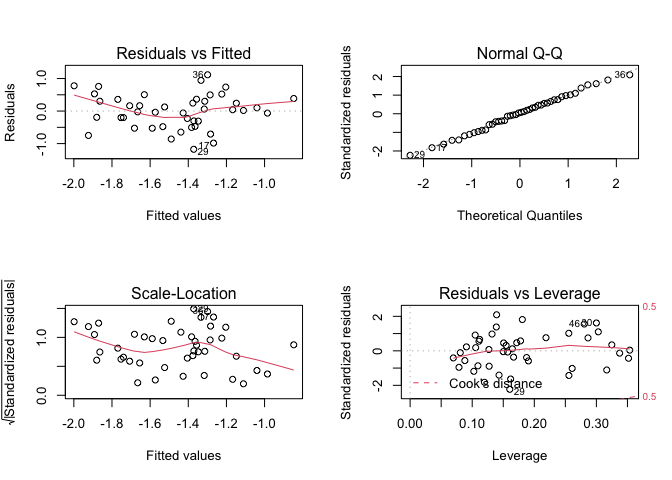
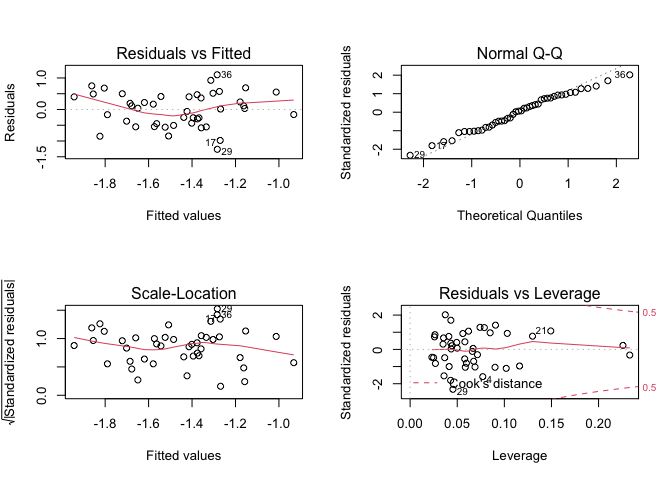
fix lm

diff --git a/bm1_final_proj.md b/bm1_final_proj.md
@@ -695,46 +695,32 @@ plot(final_fit2)
 ``` r
 # Remove observations 9
 crime_log_rm_9<-crime_log[c(-9),]
-mult.fit_no9<- lm(ln_hate_crime_outcome ~ . -state -hate_crimes_per_100k_splc, data = crime_log_rm_9)
+mult.fit_no9<- lm(ln_hate_crime_outcome ~ perc_population_with_high_school_degree + gini_index , data = crime_log_rm_9)
 
 summary(mult.fit_no9)
 ```
 
     ## 
     ## Call:
-    ## lm(formula = ln_hate_crime_outcome ~ . - state - hate_crimes_per_100k_splc, 
-    ##     data = crime_log_rm_9)
+    ## lm(formula = ln_hate_crime_outcome ~ perc_population_with_high_school_degree + 
+    ##     gini_index, data = crime_log_rm_9)
     ## 
     ## Residuals:
     ##      Min       1Q   Median       3Q      Max 
-    ## -1.17560 -0.35011  0.02951  0.35998  1.11574 
+    ## -1.26341 -0.43818  0.03534  0.42669  1.10132 
     ## 
     ## Coefficients:
-    ##                                           Estimate Std. Error t value Pr(>|t|)
-    ## (Intercept)                             -1.232e+01  6.694e+00  -1.840    0.074
-    ## unemploymenthigh                        -2.235e-01  2.049e-01  -1.091    0.283
-    ## urbanizationhigh                         1.986e-01  2.503e-01   0.793    0.433
-    ## median_household_income                 -6.492e-06  1.706e-05  -0.380    0.706
-    ## perc_population_with_high_school_degree  8.238e+00  5.575e+00   1.478    0.148
-    ## perc_non_citizen                         1.568e+00  5.367e+00   0.292    0.772
-    ## gini_index                               9.146e+00  7.431e+00   1.231    0.226
-    ## perc_non_white                          -5.079e-01  1.078e+00  -0.471    0.640
-    ##                                          
-    ## (Intercept)                             .
-    ## unemploymenthigh                         
-    ## urbanizationhigh                         
-    ## median_household_income                  
-    ## perc_population_with_high_school_degree  
-    ## perc_non_citizen                         
-    ## gini_index                               
-    ## perc_non_white                           
+    ##                                         Estimate Std. Error t value Pr(>|t|)   
+    ## (Intercept)                              -14.611      5.359  -2.726  0.00938 **
+    ## perc_population_with_high_school_degree    9.509      3.419   2.781  0.00814 **
+    ## gini_index                                10.811      6.429   1.682  0.10025   
     ## ---
     ## Signif. codes:  0 '***' 0.001 '**' 0.01 '*' 0.05 '.' 0.1 ' ' 1
     ## 
-    ## Residual standard error: 0.5752 on 36 degrees of freedom
+    ## Residual standard error: 0.556 on 41 degrees of freedom
     ##   (3 observations deleted due to missingness)
-    ## Multiple R-squared:  0.2102, Adjusted R-squared:  0.05667 
-    ## F-statistic: 1.369 on 7 and 36 DF,  p-value: 0.2481
+    ## Multiple R-squared:  0.1595, Adjusted R-squared:  0.1185 
+    ## F-statistic: 3.889 on 2 and 41 DF,  p-value: 0.02841
 
 ``` r
 mult.fit_no9 %>% 
@@ -742,114 +728,64 @@ mult.fit_no9 %>%
   knitr::kable()
 ```
 
-| term                                         |     estimate | std.error |   statistic |   p.value |
-| :------------------------------------------- | -----------: | --------: | ----------: | --------: |
-| (Intercept)                                  | \-12.3163054 | 6.6939557 | \-1.8399144 | 0.0740376 |
-| unemploymenthigh                             |  \-0.2235412 | 0.2048939 | \-1.0910097 | 0.2825171 |
-| urbanizationhigh                             |    0.1986136 | 0.2503358 |   0.7933888 | 0.4327497 |
-| median\_household\_income                    |  \-0.0000065 | 0.0000171 | \-0.3804798 | 0.7058251 |
-| perc\_population\_with\_high\_school\_degree |    8.2384517 | 5.5751399 |   1.4777121 | 0.1481810 |
-| perc\_non\_citizen                           |    1.5681815 | 5.3668087 |   0.2922000 | 0.7718111 |
-| gini\_index                                  |    9.1461035 | 7.4312797 |   1.2307575 | 0.2263946 |
-| perc\_non\_white                             |  \-0.5078851 | 1.0776599 | \-0.4712852 | 0.6402807 |
+| term                                         |    estimate | std.error |  statistic |   p.value |
+| :------------------------------------------- | ----------: | --------: | ---------: | --------: |
+| (Intercept)                                  | \-14.611088 |  5.359386 | \-2.726262 | 0.0093804 |
+| perc\_population\_with\_high\_school\_degree |    9.509373 |  3.419135 |   2.781221 | 0.0081448 |
+| gini\_index                                  |   10.810724 |  6.428859 |   1.681593 | 0.1002509 |
 
 ``` r
 influence.measures(mult.fit_no9)
 ```
 
     ## Influence measures of
-    ##   lm(formula = ln_hate_crime_outcome ~ . - state - hate_crimes_per_100k_splc,      data = crime_log_rm_9) :
+    ##   lm(formula = ln_hate_crime_outcome ~ perc_population_with_high_school_degree +      gini_index, data = crime_log_rm_9) :
     ## 
-    ##       dfb.1_ dfb.unmp dfb.urbn  dfb.md__ dfb.p___ dfb.prc_nn_c dfb.gn_n
-    ## 1   0.009525 -0.02361  0.04034 -0.018624  0.02319      0.07908 -0.05152
-    ## 2   0.022909 -0.13558  0.08541 -0.069571 -0.06331      0.08235  0.07297
-    ## 3   0.022597  0.02983  0.01546 -0.063955  0.01658      0.06830 -0.05690
-    ## 4  -0.275072 -0.22471  0.20944 -0.112558  0.30986     -0.11212  0.10994
-    ## 5   0.339196  0.07858 -0.17175  0.337978 -0.41855      0.26248 -0.17096
-    ## 6  -0.025637 -0.03119  0.02866 -0.010593  0.02438     -0.01478  0.01919
-    ## 7  -0.013551  0.00896 -0.00116  0.014222  0.00295     -0.00738  0.01950
-    ## 8   0.067749 -0.10293  0.14334 -0.006286 -0.02868     -0.10361 -0.09181
-    ## 10  0.156047 -0.04300 -0.00761  0.209841 -0.19087     -0.10520 -0.08219
-    ## 11  0.032168 -0.05522 -0.07581  0.105456 -0.05924     -0.00754  0.00162
-    ## 13 -0.122981  0.08703  0.10561  0.090471  0.03441     -0.19230  0.15862
-    ## 14  0.036406 -0.05448 -0.03604  0.022687 -0.03844     -0.00358 -0.02200
-    ## 15  0.022148 -0.03183 -0.00890 -0.022781 -0.00906      0.00947 -0.02236
-    ## 16 -0.035754 -0.03193 -0.06342 -0.100652  0.11878      0.06789 -0.06854
-    ## 17  0.385834  0.22610  0.28798  0.365956 -0.46028     -0.12841 -0.20280
-    ## 18  0.241141 -0.23093 -0.08289  0.084433 -0.34478      0.06322  0.03050
-    ## 19  0.000698  0.03329 -0.43141  0.025612  0.04202      0.60969 -0.07698
-    ## 20  0.084598 -0.14158  0.07037  0.278427 -0.11842     -0.18774 -0.07672
-    ## 21 -0.216437 -0.11288 -0.03175 -0.046286  0.14058      0.17052  0.24627
-    ## 22 -0.004672 -0.09013  0.14248 -0.074064  0.03211     -0.05854 -0.01341
-    ## 23 -0.145189 -0.01666 -0.33581  0.149186  0.09378      0.19023  0.12651
-    ## 24 -0.000325 -0.01103  0.00634 -0.010309  0.00446      0.00534 -0.00380
-    ## 25 -0.119499 -0.07066  0.00840 -0.205053  0.19698     -0.01956  0.01887
-    ## 26  0.002171  0.05307  0.13157  0.093839 -0.07278     -0.16580  0.07339
-    ## 27 -0.071561 -0.03981 -0.03145  0.065488  0.01076     -0.08209  0.11613
-    ## 28 -0.240785 -0.04944  0.12471 -0.450151  0.29710      0.01531  0.14585
-    ## 29  0.232803 -0.47008  0.27740 -0.138441 -0.17844     -0.58865 -0.14445
-    ## 30 -0.222177  0.03104 -0.49094 -0.093456  0.20648     -0.24343  0.13572
-    ## 31  0.054043  0.04446  0.01598  0.017654 -0.02872     -0.02397 -0.07156
-    ## 32 -0.067123  0.08187 -0.15531 -0.038894  0.05115      0.03012  0.06940
-    ## 34  0.061806  0.08251  0.05729  0.070515 -0.06005     -0.00816 -0.06106
-    ## 35  0.064947  0.20365  0.11224  0.119720 -0.07213      0.03569 -0.05927
-    ## 36 -0.088862  0.53731  0.25613 -0.193562  0.25415      0.31331 -0.14245
-    ## 37 -0.011037  0.01998  0.03026  0.000653  0.00940     -0.02690  0.00928
-    ## 38 -0.237643 -0.31936 -0.08375 -0.290945  0.34048     -0.24869  0.03857
-    ## 39 -0.007231  0.05735 -0.07123 -0.000461 -0.00640     -0.06497  0.02586
-    ## 40 -0.007310 -0.00589 -0.01936  0.004464  0.00671      0.00811  0.00277
-    ## 41  0.126285 -0.13293  0.01050  0.058043 -0.14416      0.03239 -0.05824
-    ## 42 -0.458249  0.12075 -0.59337 -0.074278  0.23010      0.18674  0.58774
-    ## 43 -0.007574 -0.00247 -0.00460  0.006589  0.00323     -0.00601  0.01034
-    ## 44  0.057312 -0.12503  0.09605  0.162835 -0.11306     -0.14545  0.01155
-    ## 45 -0.067056  0.47792  0.19225 -0.318867  0.33356      0.39121 -0.28374
-    ## 46  0.509451  0.35366  0.03866  0.042935 -0.48233      0.08845 -0.28033
-    ## 47 -0.003170  0.00851  0.00695  0.001068 -0.00307      0.00276  0.00989
-    ##    dfb.prc_nn_w   dffit cov.r   cook.d    hat inf
-    ## 1     -4.63e-02 -0.1622 1.459 0.003370 0.1666    
-    ## 2     -1.69e-01 -0.3144 1.854 0.012639 0.3518   *
-    ## 3      2.21e-04  0.1314 1.450 0.002213 0.1546    
-    ## 4      2.61e-01 -0.5837 0.930 0.041388 0.1432    
-    ## 5     -1.00e-01  0.7281 1.367 0.065860 0.3031    
-    ## 6      1.58e-02  0.0621 1.390 0.000495 0.1056    
-    ## 7     -1.99e-03  0.0288 1.938 0.000106 0.3537   *
-    ## 8      8.72e-02  0.2108 1.440 0.005679 0.1717    
-    ## 10    -4.38e-02 -0.2816 1.433 0.010102 0.1905    
-    ## 11    -8.61e-02 -0.2792 1.107 0.009767 0.0787    
-    ## 13     1.60e-01 -0.4039 1.014 0.020156 0.1026    
-    ## 14     2.17e-03 -0.1111 1.297 0.001581 0.0696    
-    ## 15    -8.61e-03  0.0714 1.362 0.000655 0.0907    
-    ## 16    -1.30e-02  0.3115 1.160 0.012186 0.1048    
-    ## 17    -2.04e-01 -0.6966 0.655 0.056623 0.1197    
-    ## 18    -2.96e-01  0.5959 1.333 0.044348 0.2556    
-    ## 19    -3.40e-01 -0.7580 1.388 0.071345 0.3167    
-    ## 20     2.23e-01  0.4713 1.549 0.028116 0.2865    
-    ## 21    -1.20e-01  0.3997 1.409 0.020216 0.2188    
-    ## 22     1.46e-02  0.1894 1.409 0.004585 0.1506    
-    ## 23    -1.13e-01  0.5620 0.941 0.038459 0.1388    
-    ## 24     3.68e-03 -0.0193 1.473 0.000048 0.1499    
-    ## 25     7.69e-03  0.3793 1.166 0.018015 0.1319    
-    ## 26     4.46e-02 -0.3030 1.187 0.011555 0.1092    
-    ## 27     7.77e-04 -0.1846 1.491 0.004365 0.1876    
-    ## 28     2.26e-01 -0.6064 1.341 0.045906 0.2610    
-    ## 29     2.09e-01 -1.0361 0.454 0.118939 0.1605    
-    ## 30     8.29e-01  1.0823 0.981 0.139709 0.3000    
-    ## 31    -8.38e-05 -0.0950 1.883 0.001160 0.3375   *
-    ## 32     5.04e-02  0.2332 1.279 0.006905 0.1120    
-    ## 34    -1.51e-02 -0.1736 1.280 0.003842 0.0881    
-    ## 35    -1.71e-01 -0.3397 1.200 0.014510 0.1273    
-    ## 36    -3.56e-01  0.8848 0.517 0.088440 0.1393    
-    ## 37    -1.19e-05  0.0511 1.495 0.000336 0.1646    
-    ## 38     5.41e-01 -0.7357 0.807 0.064428 0.1619    
-    ## 39     6.71e-02  0.1950 1.315 0.004849 0.1109    
-    ## 40     8.35e-03 -0.0297 1.485 0.000113 0.1571    
-    ## 41     4.00e-03  0.2371 1.807 0.007204 0.3248   *
-    ## 42     9.57e-02 -0.8490 1.057 0.087429 0.2557    
-    ## 43    -6.90e-03  0.0285 1.433 0.000105 0.1269    
-    ## 44     6.40e-02  0.2657 1.415 0.008992 0.1778    
-    ## 45    -1.99e-01  0.8810 0.711 0.090682 0.1808    
-    ## 46    -6.50e-01  0.9894 1.000 0.117424 0.2804    
-    ## 47    -7.07e-03 -0.0314 1.359 0.000127 0.0808
+    ##      dfb.1_ dfb.p___ dfb.gn_n    dffit cov.r   cook.d    hat inf
+    ## 1  -0.04831  0.10108 -0.01698 -0.18486 1.115 1.15e-02 0.0674    
+    ## 2  -0.08412 -0.05622  0.20649 -0.37353 1.095 4.63e-02 0.1020    
+    ## 3   0.04674 -0.05176 -0.03171  0.07537 1.115 1.93e-03 0.0432    
+    ## 4  -0.33436  0.38862  0.21221 -0.46815 0.964 7.03e-02 0.0771    
+    ## 5   0.15990 -0.23793 -0.04784  0.31590 1.126 3.34e-02 0.1031    
+    ## 6  -0.08041  0.08395  0.06439  0.10866 1.127 4.02e-03 0.0581    
+    ## 7   0.16551 -0.13590 -0.16761 -0.17993 1.393 1.10e-02 0.2331   *
+    ## 8   0.08234 -0.04650 -0.10068  0.15586 1.077 8.18e-03 0.0411    
+    ## 10  0.07500 -0.03959 -0.09999 -0.13600 1.118 6.27e-03 0.0579    
+    ## 11 -0.00911  0.06306 -0.05170 -0.20751 1.043 1.44e-02 0.0414    
+    ## 13 -0.13389  0.05633  0.18403 -0.26013 1.055 2.25e-02 0.0586    
+    ## 14  0.04890 -0.03380 -0.05761 -0.09386 1.099 2.99e-03 0.0367    
+    ## 15  0.06286 -0.04536 -0.06759  0.09197 1.119 2.88e-03 0.0494    
+    ## 16  0.01954  0.08717 -0.12000  0.29453 1.098 2.90e-02 0.0849    
+    ## 17  0.14172 -0.22640 -0.03864 -0.39381 0.878 4.88e-02 0.0430    
+    ## 18  0.20475 -0.28349 -0.08244  0.37461 1.036 4.61e-02 0.0788    
+    ## 19 -0.03266  0.12014 -0.06659 -0.27917 1.070 2.59e-02 0.0689    
+    ## 20 -0.00967  0.04119 -0.02113  0.12750 1.080 5.49e-03 0.0355    
+    ## 21 -0.41018  0.35684  0.39607  0.45169 1.162 6.77e-02 0.1493    
+    ## 22 -0.03175  0.04697  0.01436  0.14036 1.048 6.61e-03 0.0263    
+    ## 23 -0.16557  0.25800  0.04797  0.36651 1.028 4.40e-02 0.0741    
+    ## 24  0.00783 -0.00790 -0.00835 -0.06981 1.086 1.66e-03 0.0231    
+    ## 25 -0.03419  0.12127 -0.05556  0.27339 1.056 2.48e-02 0.0620    
+    ## 26 -0.04675 -0.02154  0.10415 -0.20216 1.092 1.37e-02 0.0597    
+    ## 27 -0.06918  0.06770  0.05696 -0.08433 1.152 2.42e-03 0.0714    
+    ## 28 -0.05026 -0.07086  0.15949 -0.32811 1.092 3.58e-02 0.0901    
+    ## 29  0.36687 -0.30997 -0.36998 -0.53782 0.738 8.58e-02 0.0454   *
+    ## 30  0.10713 -0.15209 -0.03822  0.22478 1.071 1.69e-02 0.0559    
+    ## 31 -0.09480  0.05869  0.11566  0.12446 1.386 5.29e-03 0.2259   *
+    ## 32  0.00884 -0.02098  0.00641  0.05785 1.108 1.14e-03 0.0349    
+    ## 34  0.01458 -0.02086 -0.00767 -0.07570 1.086 1.95e-03 0.0249    
+    ## 35 -0.05032  0.05316  0.03486 -0.13563 1.053 6.18e-03 0.0269    
+    ## 36 -0.17775  0.24161  0.09041  0.41362 0.817 5.26e-02 0.0373    
+    ## 37 -0.00361  0.00332  0.00336  0.00531 1.126 9.62e-06 0.0435    
+    ## 38  0.04064  0.03242 -0.11447 -0.30303 0.934 2.96e-02 0.0360    
+    ## 39  0.02151 -0.02895 -0.00918  0.04558 1.123 7.09e-04 0.0444    
+    ## 40  0.00399 -0.00823  0.00135  0.01656 1.133 9.37e-05 0.0499    
+    ## 41  0.18294 -0.24641 -0.08224  0.29585 1.185 2.95e-02 0.1299    
+    ## 42 -0.16424  0.03740  0.25920 -0.35073 1.137 4.11e-02 0.1161    
+    ## 43 -0.00810  0.01132  0.00364  0.01528 1.154 7.98e-05 0.0669    
+    ## 44 -0.03528  0.02611  0.04147  0.11853 1.063 4.74e-03 0.0259    
+    ## 45 -0.05790  0.15775 -0.04612  0.37009 0.904 4.35e-02 0.0432    
+    ## 46  0.37423 -0.38901 -0.28582  0.45161 1.020 6.63e-02 0.0906    
+    ## 47 -0.00934 -0.00130  0.01794 -0.03095 1.152 3.27e-04 0.0661
 
 ``` r
 par(mfrow=c(2,2))
